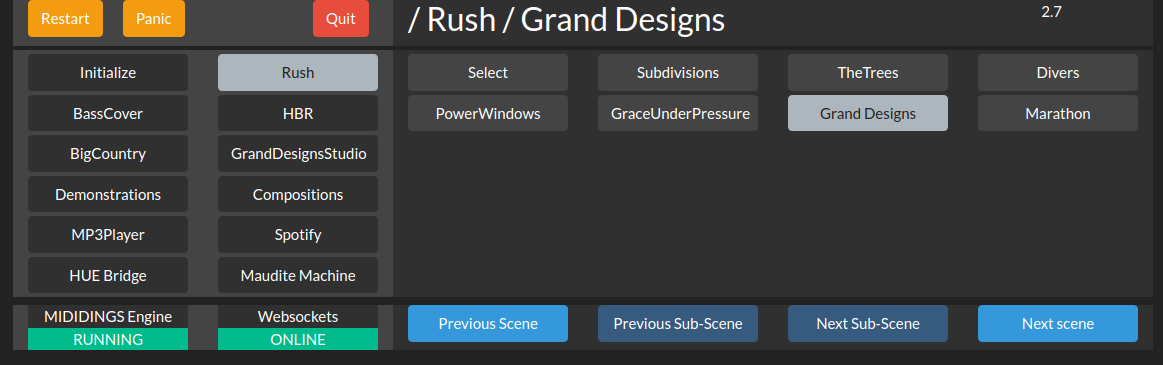
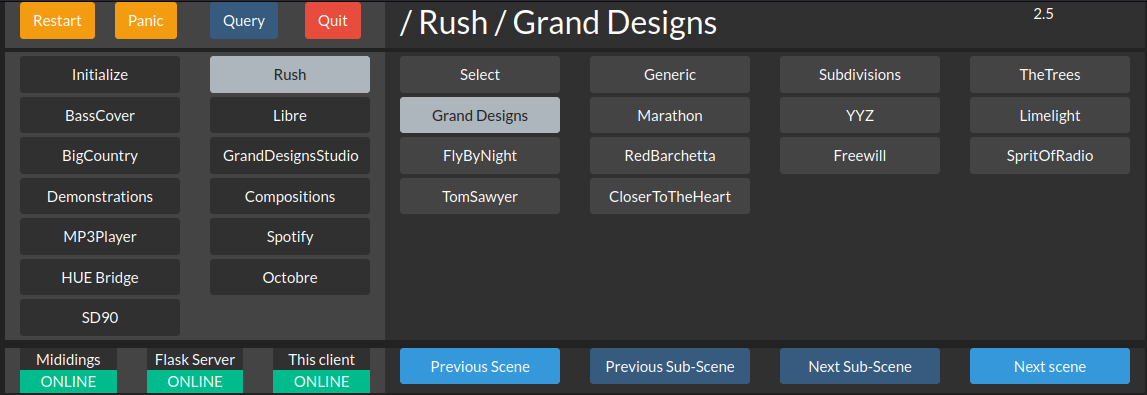
#35 - WIP Server State

diff --git a/src/blueprint/templates/ui.html b/src/blueprint/templates/ui.html
@@ -54,23 +54,30 @@
             <!-- Console header -->
 
             <div class="row">
-                <div class="bg-secondary col-md-6 text-center">
+                <div class="bg-secondary col-md-4 text-center">
                     <div class="bg-dark">
-                        MIDIDINGS Engine
+                        Mididings
                     </div>
                 </div>
-                <div class="bg-secondary col-md-6 text-center">
+                <div class="bg-secondary col-md-4 text-center">
                     <div class="bg-dark">
-                        Websockets
+                        Flask Server
+                    </div>
+                </div>
+                <div class="bg-secondary col-md-4 text-center">
+                    <div class="bg-dark">
+                        This client
                     </div>
                 </div>
             </div>
 
-            <!-- Console status -->
+            <!-- Services state -->
             <div id="console" class="row">
-                <div id="mididings" class="bg-secondary col-md-6 text-center">
+                <div id="mididings-state" class="bg-secondary col-md-4 text-center">
                 </div>
-                <div id="websockets" class="bg-secondary col-md-6 text-center">
+                <div id="server-state" class="bg-secondary col-md-4 text-center">
+                </div>
+                <div id="client-state" class="bg-secondary col-md-4 text-center">
                 </div>
             </div>
         </div>
@@ -109,22 +116,23 @@
 
         socket.on('connect', function () {
             socket.emit('sio_get_mididings_context');
-            $('#websockets').html('<div class="bg-success">ONLINE</div>');
-            $('#mididings').html('<div class="bg-success">RUNNING</div>');
+            $('#client-state').html('<div class="bg-success">ONLINE</div>');
+            $('#mididings-state').html('<div class="bg-success">ONLINE</div>');
+            $('#server-state').html('<div class="bg-success">ONLINE</div>');
         });
 
         socket.on('on_exit', function () {
-            $('#mididings').html('<div class="bg-danger">STOPPED</div>');
+            $('#mididings-state').html('<div class="bg-danger">OFFLINE</div>');
         });
 
         socket.on('on_start', function () {
-            $('#mididings').html('<div class="bg-success">RUNNING</div>');
+            $('#mididings-state').html('<div class="bg-success">ONLINE</div>');
         });
 
         socket.on('on_terminate', function () {
             socket.disconnect();
-            $('#websockets').html('<div class="bg-danger">DISCONNECTED</div>');
-            $('#mididings').html('<div class="bg-danger">STOPPED</div>');
+            $('#client-state').html('<div class="bg-danger">OFFLINE</div>');
+            $('#mididings-state').html('<div class="bg-danger">OFFLINE</div>');
         });
 
         socket.on('mididings_context_update', function (context) {
